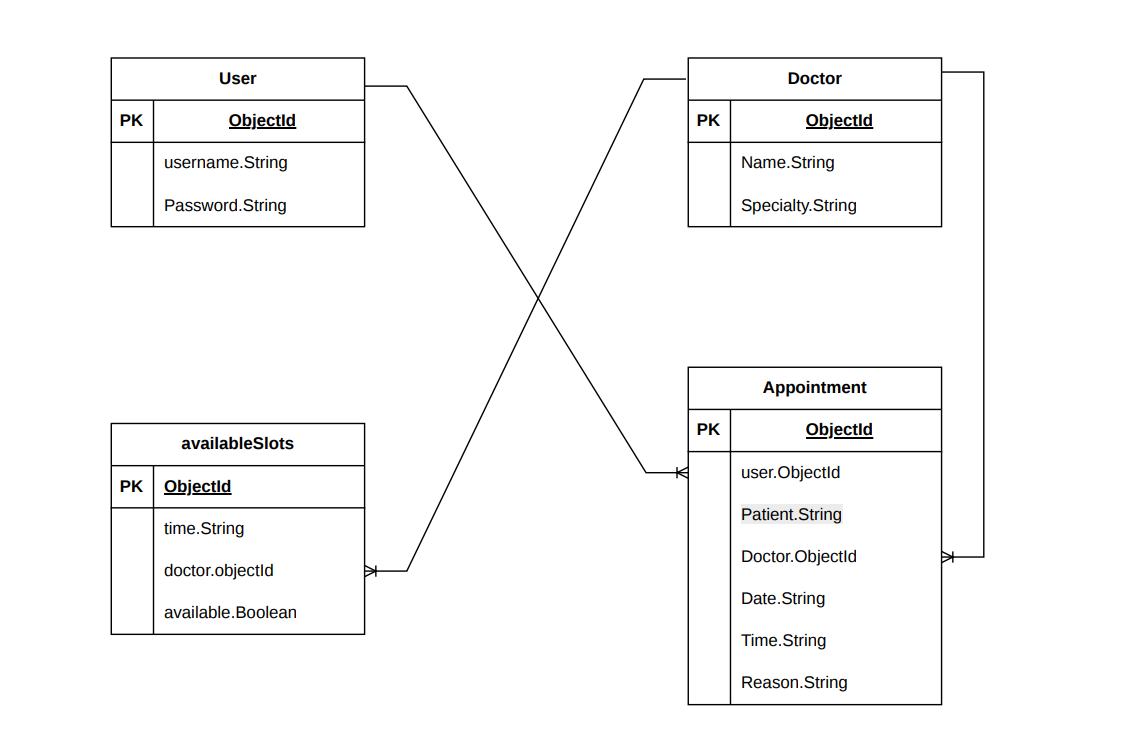
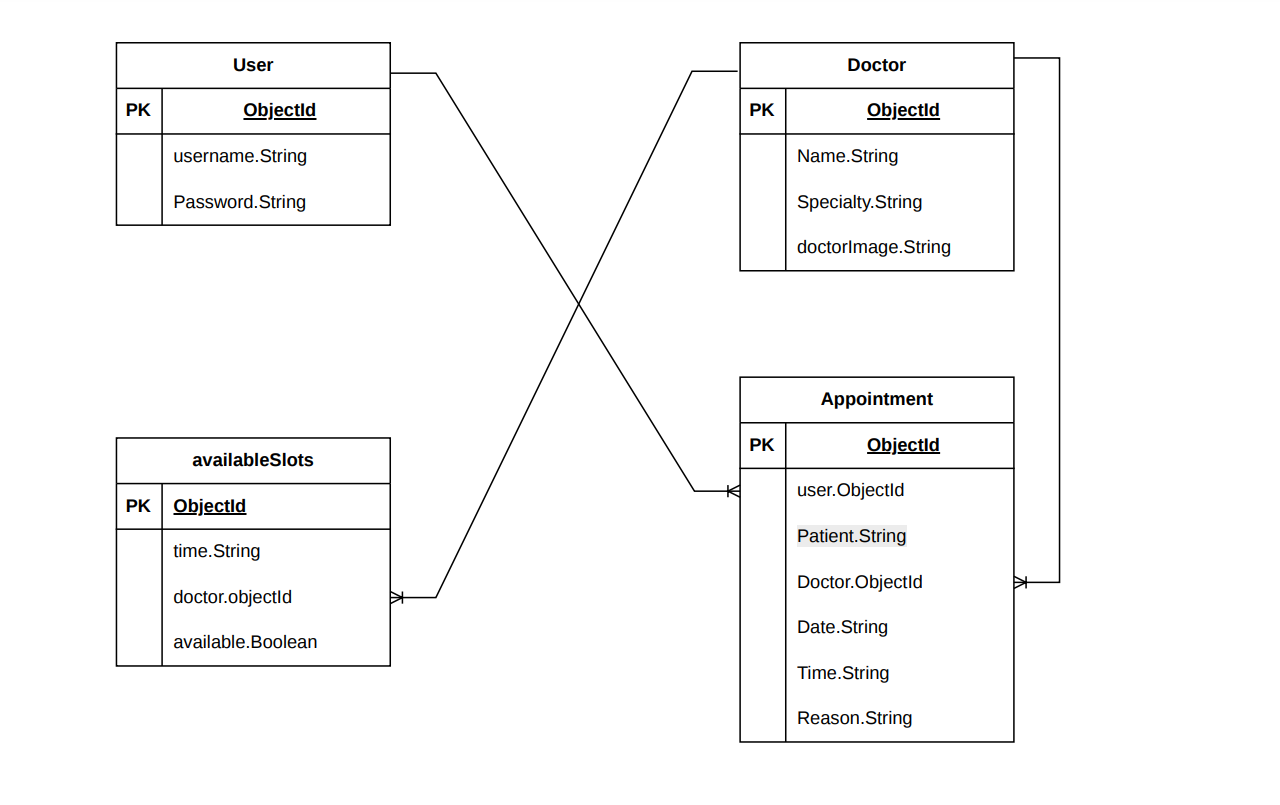
README updates

diff --git a/README.md b/README.md
@@ -3,18 +3,30 @@ Medical Appointment Manager
 
 
 ## Overview
+Medical Appointment Manager is a full-stack web application that lets patients browse doctors by specialty and book, view, edit and cancel their own appointments online. Users create an account, choose a doctor, pick an available time slot, and manage their bookings from one place. Once a time slot is booked it is no longer offered to other patients, which prevents double booking.
+
+
 
 
 
 ## Screenshots
-
+![alt text](<sign up.png>)
+![alt text](homepage.png)
+![alt text](<book appointment.png>)
+![alt text](<appointment details.png>)
+![alt text](<all appts.png>)
+![alt text](edit.png)
 
 
 ## Technologies Used
-1. HTML
-2. CSS
-3. Javascript
-4. MEN Stack
+| Area | Technology |
+|---|---|
+| Server | Node.js, Express |
+| Views | EJS templates |
+| Database | MongoDB with Mongoose |
+| Authentication | express-session, bcrypt |
+| Forms | method-override (PUT and DELETE from HTML forms) |
+| Styling | Custom CSS |
 
 
 ## Getting Started
@@ -26,11 +38,18 @@ Medical Appointment Manager
 
 
 ## User Stories
-
+Sign up: As a new visitor, I want to create an account with a username and a password, so that I can book appointments.
+Secure password: As a user, I want the app to require a password longer than 6 characters, so that my account is better protected.
+Sign in and out: As a registered user, I want to sign in and sign out, so that only I can see and manage my appointments.
+Browse doctors: As a patient, I want to see a list of doctors with their name, specialty and picture, so that I can choose the right doctor for my needs.
+Book an appointment: As a patient, I want to choose a date and an available time slot with a doctor and give a reason for my visit, so that I can reserve my visit.
+View my appointments: As a patient, I want to see a list of my own appointments and open the details of each one, so that I can check when and with whom my visits are.
+Edit an appointment: As a patient, I want to change the date, time or reason of my appointment, so that I can reschedule without booking again.
+Cancel an appointment: As a patient, I want to cancel an appointment after a confirmation pop-up, so that I don't delete one by accident and the time slot becomes available again.
 
 
 ## Database Design
-![The ERD](<erd.png>)
+![The ERD](<ERD.png>)
 
 
 
@@ -59,7 +78,30 @@ Medical Appointment Manager
 
 
 ## Features
-
+Accounts and security
+Sign up, sign in and sign out
+Passwords are hashed with bcrypt and never stored as plain text
+Password validation: must be more than 6 characters, and must match the confirmation
+Duplicate usernames are rejected
+Session-based login, with protected routes for signed-in users only
+Each user can see only their own appointments
+Doctors
+Homepage with a card for every doctor, showing name, specialty and image
+Cards are centered and responsive, and wrap onto new rows as doctors are added
+Empty state message when no doctors are available
+Appointments (full CRUD)
+Create: book with a doctor by choosing the date, an available time slot and a reason
+Read: list of my appointments, and a details page for each one
+Update: edit the patient name, date, time slot and reason
+Delete: remove an appointment after confirming in a pop-up
+Time slots: a booked slot becomes unavailable, and is freed again when the appointment is edited to another time or deleted
+Empty state message when the user has no appointments yet
+Interface
+Navigation bar that changes with login status (Sign up and Login for visitors, All Appointments and Logout for signed-in users)
+Hero banner on the homepage with a hospital photo
+Consistent green card design across all pages
+Responsive layout for desktop and mobile
+Clear error messages for invalid input
 
 
 
@@ -67,7 +109,10 @@ Medical Appointment Manager
 
 
 ## Future Enhancements
-
+1. Exporting into Excel or PDF
+2. Photo Upload
+3. Admin Dashboard
+4. Animations
 
 
 
@@ -75,3 +120,4 @@ Medical Appointment Manager
 
 
 ## Credits
+E- mail: shaimaawadh55@gmail.com
